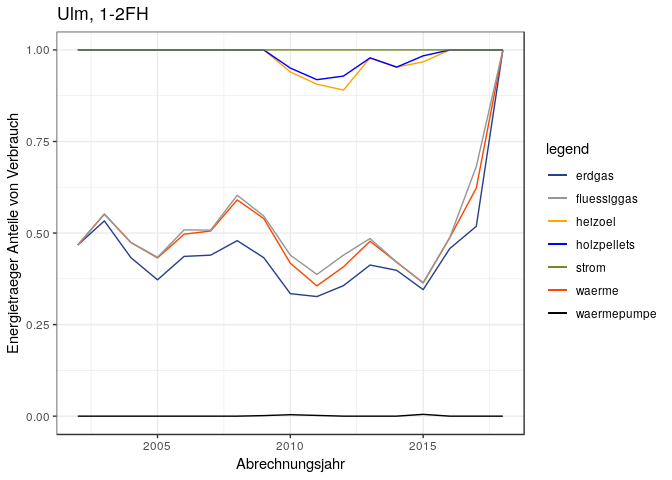
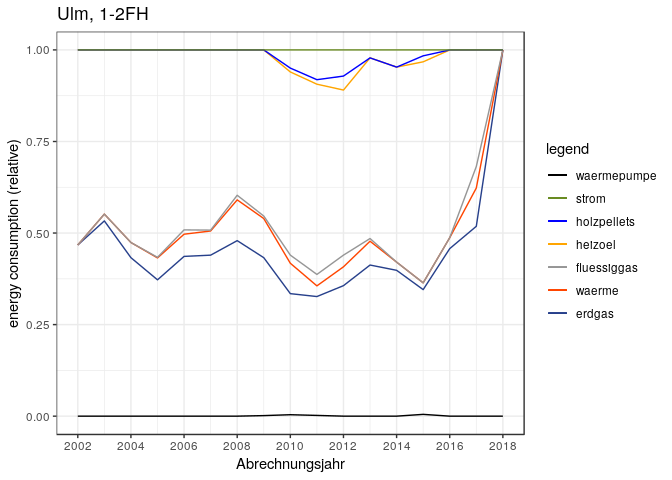
Third commit

diff --git a/co2emissions_ulm.md b/co2emissions_ulm.md
@@ -356,7 +356,10 @@ ggplot()+geom_line(data=datawide,aes(x=abrechnungsjahr,y=get(et_list[1]),color=e
 )+geom_line(data=datawide,aes(x=abrechnungsjahr,y=get(et_list[5]),color=et_list[5])
 )+geom_line(data=datawide,aes(x=abrechnungsjahr,y=get(et_list[6]),color=et_list[6])
 )+geom_line(data=datawide,aes(x=abrechnungsjahr,y=get(et_list[7]),color=et_list[7])
-)+scale_color_manual(name="legend",values=cols) + labs(x="Abrechnungsjahr",y="Energietraeger Anteile von Verbrauch",title="Ulm, 1-2FH")+theme_bw()
+)+scale_color_manual(name="legend",values=cols,breaks=rev(
+c("erdgas","waerme","fluessiggas","heizoel","holzpellets","strom","waermepumpe"))) + labs(
+x="Abrechnungsjahr",y="energy consumption (relative)",title="Ulm, 1-2FH")+theme_bw(
+)+scale_x_continuous(breaks=seq(2002,2018,2))
 ```
 
 ![](co2emissions_ulm_files/figure-markdown_github/unnamed-chunk-12-1.png)
@@ -371,21 +374,19 @@ ggplot()+geom_line(data=datawide,aes(x=abrechnungsjahr,y=get(et_list[1]),color=e
 )+geom_line(data=datawide,aes(x=abrechnungsjahr,y=get(et_list[5]),color=et_list[5])
 )+geom_line(data=datawide,aes(x=abrechnungsjahr,y=get(et_list[6]),color=et_list[6])
 )+geom_line(data=datawide,aes(x=abrechnungsjahr,y=get(et_list[7]),color=et_list[7])
-)+scale_color_manual(name=" ",values=cols
+)+scale_color_manual(name=" ",values=cols,breaks=rev(
+c("erdgas","waerme","fluessiggas","heizoel","holzpellets","strom","waermepumpe"))
 )+geom_ribbon(data=datawide,aes(x=abrechnungsjahr,ymin=0,ymax=get(et_list[7])),fill=col_list[7]
 )+geom_ribbon(data=datawide,aes(x=abrechnungsjahr,ymin=0,ymax=get(et_list[6])),fill=col_list[6]
 )+geom_ribbon(data=datawide,aes(x=abrechnungsjahr,ymin=0,ymax=get(et_list[5])),fill=col_list[5]
 )+geom_ribbon(data=datawide,aes(x=abrechnungsjahr,ymin=0,ymax=get(et_list[4])),fill=col_list[4]
 )+geom_ribbon(data=datawide,aes(x=abrechnungsjahr,ymin=0,ymax=get(et_list[3])),fill=col_list[3]
 )+geom_ribbon(data=datawide,aes(x=abrechnungsjahr,ymin=0,ymax=get(et_list[2])),fill=col_list[2]
-)+geom_ribbon(data=datawide,aes(x=abrechnungsjahr,ymin=0,ymax=get(et_list[1])),fill=col_list[1])+theme_bw()+ labs(x="Abrechnungsjahr",y="Energietraeger Anteile von Verbrauch",title="Ulm, 1-2FH")
+)+geom_ribbon(data=datawide,aes(x=abrechnungsjahr,ymin=0,ymax=get(et_list[1])),fill=col_list[1])+theme_bw()+ labs(x="Abrechnungsjahr",y="Energietraeger Anteile von Verbrauch",title="Ulm, 1-2FH"
+)+scale_x_continuous(breaks=seq(2002,2018,2))
 ```
 
 ![](co2emissions_ulm_files/figure-markdown_github/unnamed-chunk-13-1.png)
-
-``` r
-#ggsave("01_energieanteile_rawdata.jpg")
-```
 
 3. Now for the CO<sub>2</sub> emissions
 ---------------------------------------
